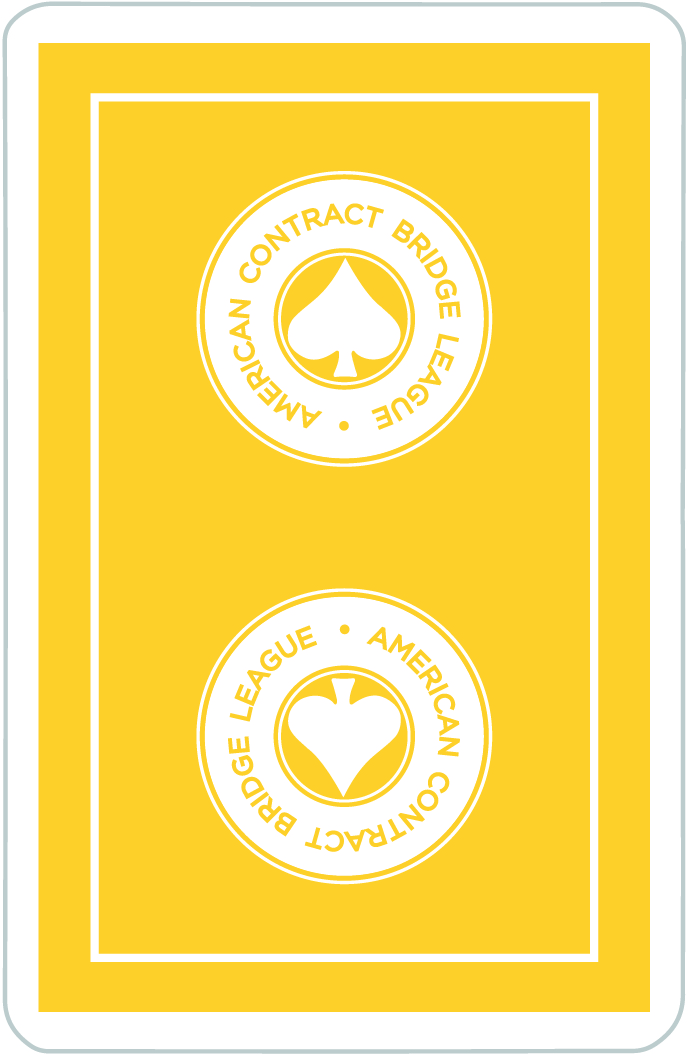
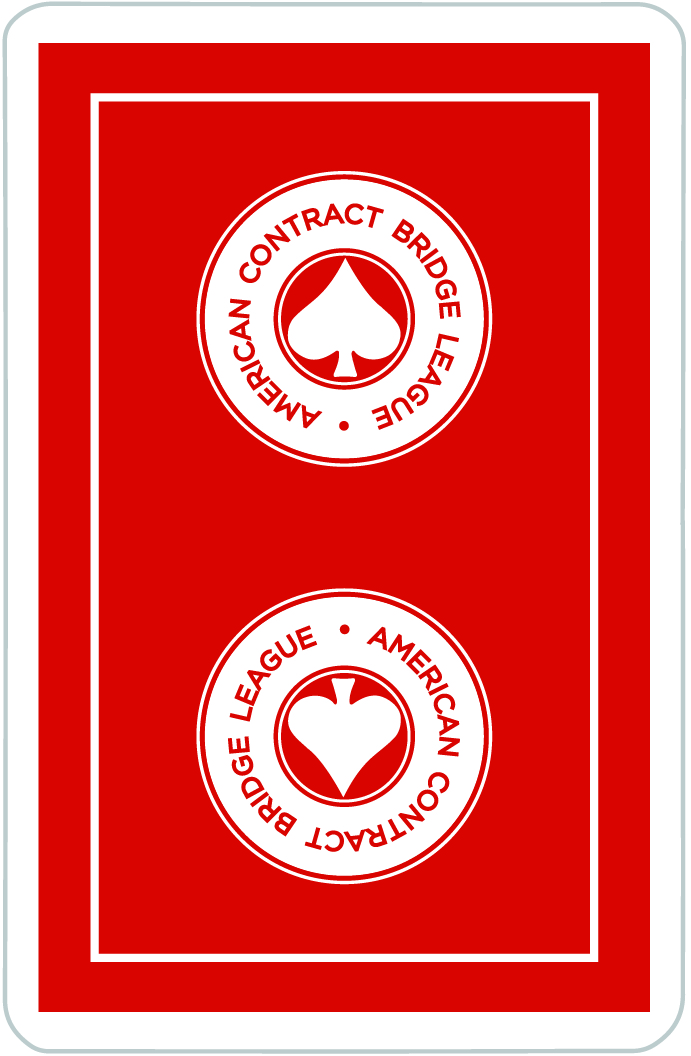
增加功能

diff --git a/作業/index.html b/作業/index.html
@@ -62,7 +62,7 @@
             .back{
                 width: 100%;
                 height: 100%;
-                background-image: url(./cards/0.jpg);
+                background-image: url(./cards/1.jpg);
                 background-size: contain;
                 background-position: center;
                 background-repeat: no-repeat;
@@ -183,10 +183,11 @@
         <script src="./jquery-3.5.1.min.js"></script>
         <script>
             let checkPoint = 2;
-            let bg = 0;
+            let level = 1;
+            let bg = 1;
             function createCards(row){
                 let order = 0;
-                let totalCard = Math.pow(row,2)
+                let totalCard = checkPoint % 2 === 0 ? Math.pow(row,2) : Math.pow(row,2)-1
                 for(let i=0;i<row;i++){
                     $('#cards').append(`
                     <div class='card close'>
@@ -221,6 +222,10 @@
                     const target = Math.floor(Math.random()*totalCard)
                     $('.card').eq(target).insertAfter($('.card').eq(order-1))
                 }
+                // $(`<div class='card close'>
+                //             <div class='back'></div>
+                //             <div class='front'></div>
+                //             </div>`)
                 for(let k=row-1;k<totalCard;k+=row){
                     $(`<div class='block'></div>`).insertAfter($('.card').eq(k))
                 }
@@ -230,6 +235,8 @@
                 $('#next').css('display','none')
                 checkPoint+=2
                 createCards(checkPoint)
+                level++
+                $('#level').text(level)
             }
                 $('#cards').on('click','.card',function(){
                     if($('.card:not(.close)').length < 2){
